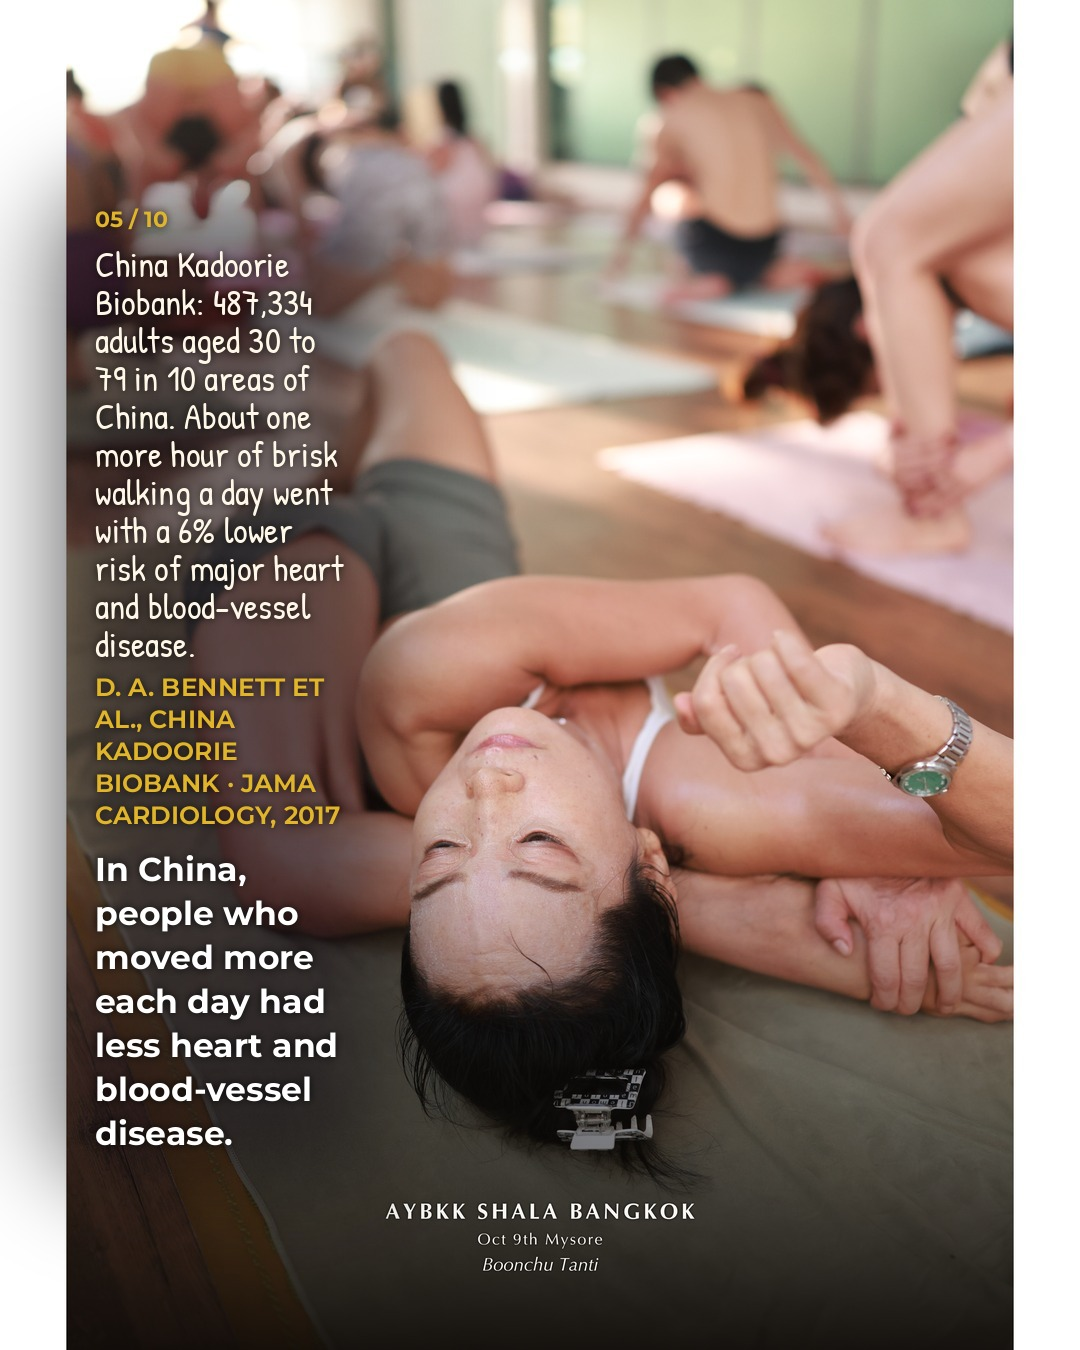
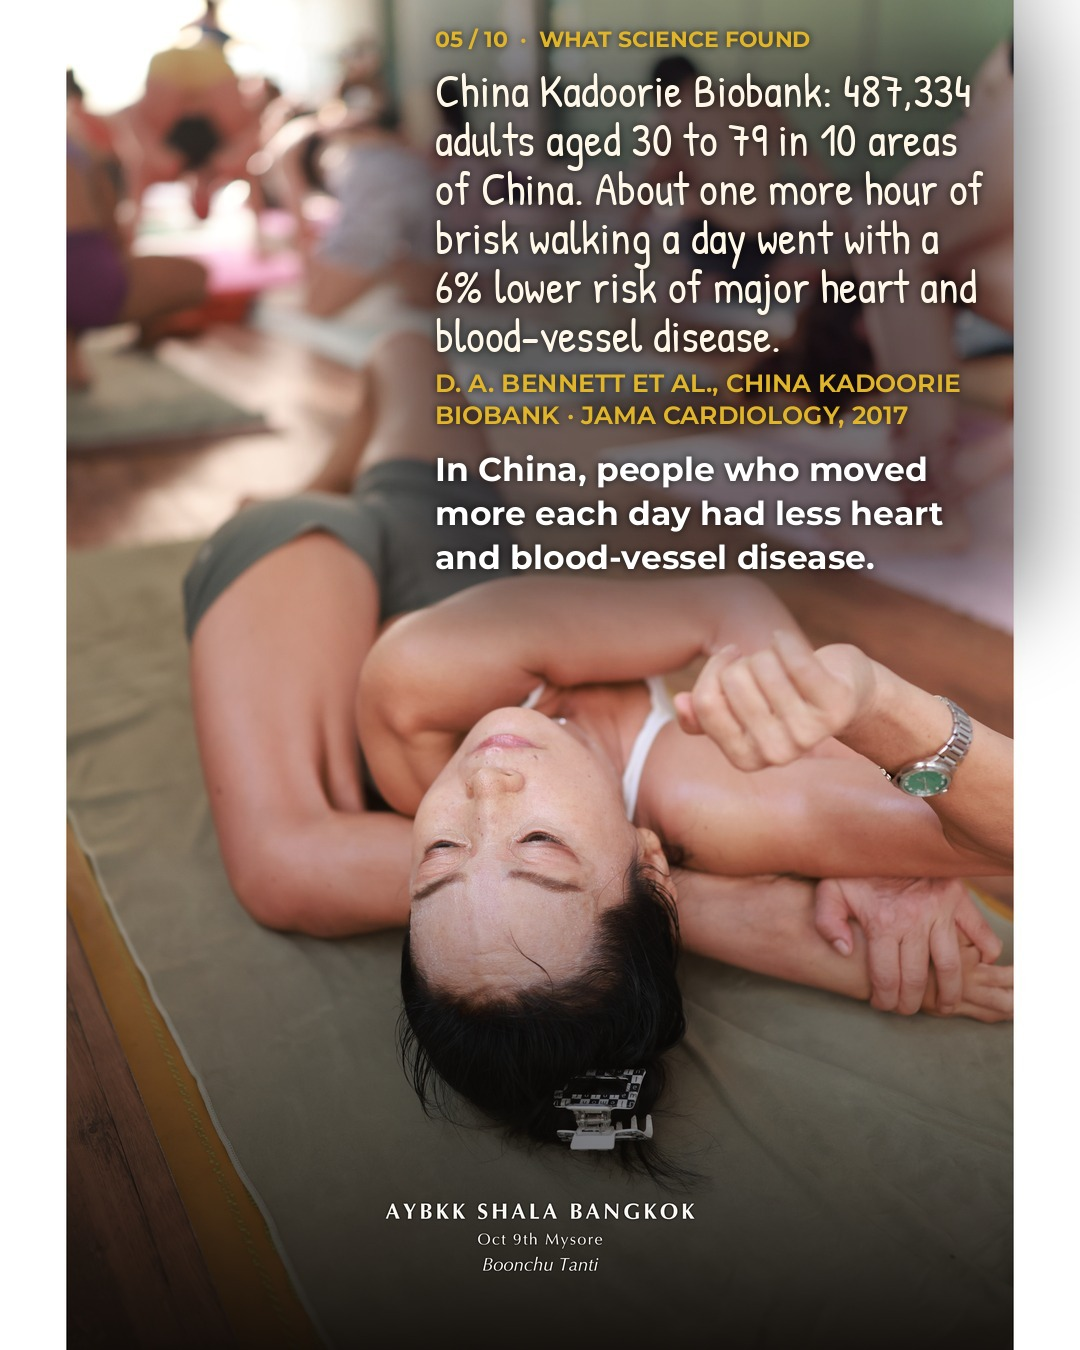
plato chat: 2026-10-09 batch 3 slides 5, 7, 8 moved

diff --git a/bots/media/2026-10-09-stay-active/move.py b/bots/media/2026-10-09-stay-active/move.py
@@ -1,0 +1,41 @@
+# Usage: move.py <batch> '<json list of [slide_no, region]>'  region in tr, tl, br, bl
+import sys, os, json
+sys.path.insert(0, os.path.dirname(os.path.abspath(__file__)))
+b=sys.argv[1]; REQ=json.loads(sys.argv[2])
+sys.argv=['x',b]
+exec(open('place9.py').read().split("n=len(S)")[0])
+SOFTBG=set(os.environ.get('SOFTBG','').split(','))
+for _p in SOFTBG:
+    for _b in Z.get(_p,[]):
+        if _b['who']=='background' and _b['kind']=='face': _b['kind']='softface'
+A=json.load(open(f'assign_{b}.json'))
+def bars(p):
+    e=EXTRA.get(p,[]); return (e[0]['x1'] if e else 0, e[1]['x0'] if e else 1080)
+def cond(region,p):
+    L0,R0=bars(p)
+    return {'tr':lambda x,y,w,h: x+w+14>=R0-60 and x>=430 and y<=40,
+            'tl':lambda x,y,w,h: x-14<=L0+60 and y<=40,
+            'br':lambda x,y,w,h: x+w+14>=R0-60 and y+h>=1150,
+            'bl':lambda x,y,w,h: x-14<=L0+60 and x+w<=640 and y+h>=1100}[region]
+def best_c(p,sl,c):
+    Iw,If,Is=prep(p); out=None
+    for w in WIDTHS:
+      for qm in (46,42,38):
+        L=R.layout(sl,w,qm); h=L['h']+12
+        for x0 in range(20,1061-w,5):
+            for y0 in range(15,1335-h,5):
+                if not c(x0,y0,w,h): continue
+                rx0,rx1=x0-14,x0+w+14; ry0,ry1=y0,y0+h
+                if If[ry1,rx1]-If[ry0,rx1]-If[ry1,rx0]+If[ry0,rx0]>0: continue
+                body=(Iw[ry1,rx1]-Iw[ry0,rx1]-Iw[ry1,rx0]+Iw[ry0,rx0])/((rx1-rx0)*h)
+                soft=(Is[ry1,rx1]-Is[ry0,rx1]-Is[ry1,rx0]+Is[ry0,rx0])>0
+                sc=body+0.3*(940-w)/640+1.5*soft+0.12*(46-qm)/8
+                if out is None or sc<out[0]: out=(round(float(sc),3),w,x0,y0,h,qm)
+    return out
+F=json.load(open(f'force_{b}.json'))
+for k,region in REQ:
+    p=A['photos'][k-1]; t=S[A['texts'][k-1]]
+    r=best_c(p,slide(t,k),cond(region,p))
+    print(k,p,region,r)
+    if r: F[p]=[r[1],r[2],r[3],r[5]]
+json.dump(F,open(f'force_{b}.json','w'))

diff --git a/bots/media/2026-10-09-stay-active/slides_o9.py b/bots/media/2026-10-09-stay-active/slides_o9.py
@@ -88,7 +88,7 @@ B3=('WHAT SCIENCE FOUND',[
  "670 people aged 70 or older, who had fallen in the past year or were slow to get up and walk, took two one-hour classes a week for 24 weeks. The 224 doing tai chi had 152 falls; the 223 stretching had 363.",
  "A special tai chi class helped older people keep their balance and fall far less.",{'s':1}),
 ('',"M. A. Fiatarone et al. · JAMA, 1990",
- "Ten frail nursing-home residents aged about 90 (up to 96) did 8 weeks of strength training. The 9 who finished got on average 174% stronger, their mid-thigh muscle grew 9%, and their heel-to-toe walking got 48% faster.",
+ "Ten frail nursing-home residents aged about 90 did 8 weeks of strength training. The 9 who finished got on average 174% stronger and walked 48% faster.",
  "Even at 90, muscles grow stronger when you train them.",{'s':1}),
 ('',"N. R. Lazarus · NPR, 2018; Aging Cell, 2018",
  "At 82, Professor Norman Lazarus still cycled: ‘...I wasn't aging in the way that I'd sort of been taught in medical school.’ In his study, cyclists aged 55-79 had as many new T cells as young adults.",
